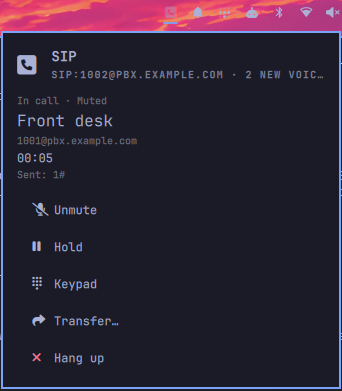
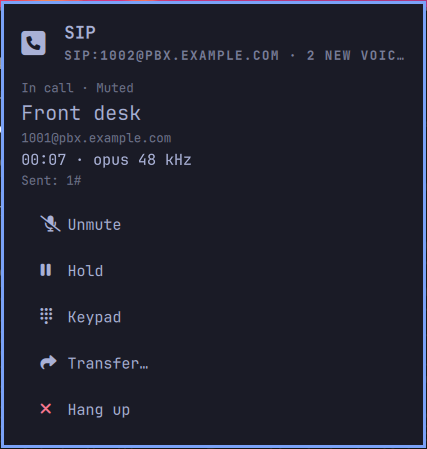
Screenshots of the new screens, with nothing personal in them
The preview and every panel screenshot are retaken for 0.3.0 with the
simple-sip-demo stand-in, so every name, number and host is dummy
example.com data. The main screen now shows the Contacts and All calls rows
and the keypad button; the call screen shows the negotiated codec; the
account form shows its outbound proxy, STUN and codec rows. New shots cover
the Contacts screen, All calls, the dial keypad and a filled-in account
form, added to the README's gallery with alt text that says what each one
shows. The bar-icon strip is unchanged, as the icon is.

diff --git a/README.md b/README.md
@@ -10,14 +10,18 @@ heavily fenced helper drives it; the panel follows your theme.
 ![baresip](https://img.shields.io/badge/engine-baresip%204.x-blue)
 
 <p align="center">
-  <img src="preview.png" width="342" alt="The Simple SIP panel under the bar: the account and two new voicemails in the header, a dial field, Voicemail, Do not disturb and Account settings rows, then Recent calls — a missed call from a saved contact, an outgoing call, an answered one from an extension and an unanswered number.">
+  <img src="preview.png" width="342" alt="The Simple SIP panel under the bar: the account and two new voicemails in the header, a dial field with keypad and call buttons, Voicemail, Do not disturb, Contacts (7 saved) and Account settings rows, then Recent calls — a missed call from a saved contact, outgoing and answered calls, a missed call from an extension — and an All calls row.">
 </p>
 
 | A call coming in | In a call |
 |---|---|
-| <img src="docs/screenshots/incoming.png" width="342" alt="An incoming call from the saved contact Sam Rivera, with Answer and Reject rows."> | <img src="docs/screenshots/active.png" width="342" alt="A call in progress with Front desk: muted, 00:05 on the timer, keypad tones sent, and rows for Unmute, Hold, Keypad, Transfer and Hang up."> |
-| **Do not disturb** | **Setting up an account** |
-| <img src="docs/screenshots/dnd.png" width="342" alt="Do not disturb switched on: a crossed-out bell in the bar and the header, and the row reading On — calls go to voicemail."> | <img src="docs/screenshots/setup.png" width="342" alt="The account form: address, auth username, display name, password and transport."> |
+| <img src="docs/screenshots/incoming.png" width="342" alt="An incoming call from the saved contact Sam Rivera, with Answer and Reject rows."> | <img src="docs/screenshots/active.png" width="342" alt="A call in progress with Front desk: muted, 00:07 on the timer with the negotiated codec, opus 48 kHz, keypad tones sent, and rows for Unmute, Hold, Keypad, Transfer and Hang up."> |
+| **Contacts** | **All calls** |
+| <img src="docs/screenshots/contacts.png" width="342" alt="The Contacts screen: a search field, a New contact row, and seven saved contacts sorted by name, each with its address."> | <img src="docs/screenshots/history.png" width="342" alt="The All calls screen: the whole kept call log, with missed calls in red and the duration of each answered one."> |
+| **The dial keypad** | **Do not disturb** |
+| <img src="docs/screenshots/keypad.png" width="342" alt="The main screen with the dial keypad open under the dial field."> | <img src="docs/screenshots/dnd.png" width="342" alt="Do not disturb switched on: a crossed-out bell in the header, and the row reading On — calls go to voicemail."> |
+| **Setting up an account** | **Account settings** |
+| <img src="docs/screenshots/setup.png" width="342" alt="The empty account form: address, auth username, display name, password, transport, outbound proxy, STUN server, and the audio codec toggles."> | <img src="docs/screenshots/account.png" width="342" alt="The account form filled in for sip:1002@pbx.example.com over TLS, with an outbound proxy, a STUN server and the codec toggles."> |
 
 <p align="center">
   <img src="docs/screenshots/bar-states.png" width="620" alt="The bar icon in four states: a phone with a red dot for a missed call, a red phone while ringing, a filled square phone during a call, and a crossed-out bell for Do not disturb.">
